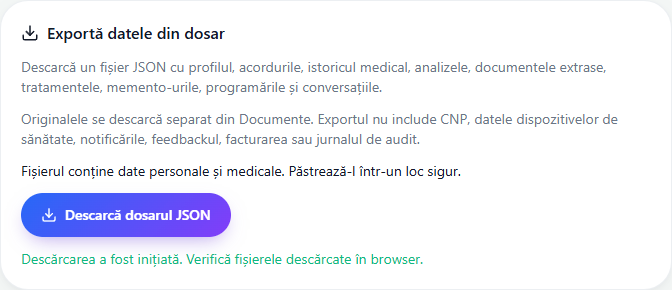
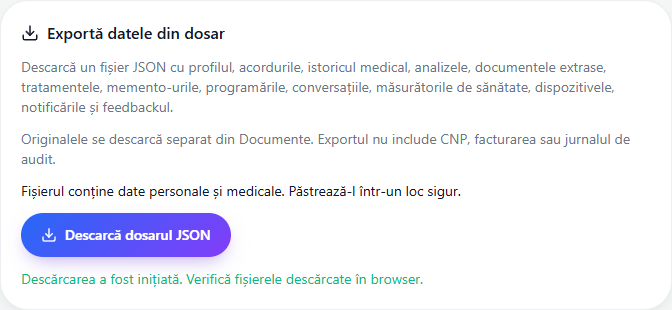
Include owned health metrics notifications and feedback in export

diff --git a/frontend/src/components/data-export.tsx b/frontend/src/components/data-export.tsx
@@ -30,9 +30,9 @@ export function DataExport() {
       <Download size={18} aria-hidden="true" /> Exportă datele din dosar
     </h2>
     <p className="text-sm text-muted">Descarcă un fișier JSON cu profilul, acordurile, istoricul medical,
-      analizele, documentele extrase, tratamentele, memento-urile, programările și conversațiile.</p>
+      analizele, documentele extrase, tratamentele, memento-urile, programările, conversațiile, măsurătorile de sănătate, dispozitivele, notificările și feedbackul.</p>
     <p className="text-sm text-muted">Originalele se descarcă separat din Documente. Exportul nu include
-      CNP, datele dispozitivelor de sănătate, notificările, feedbackul, facturarea sau jurnalul de audit.</p>
+      CNP, facturarea sau jurnalul de audit.</p>
     <p className="text-sm">Fișierul conține date personale și medicale. Păstrează-l într-un loc sigur.</p>
     {native && <p className="text-sm text-muted">Alege destinația în dialogul sistemului. Copia temporară
       rămâne în memoria cache privată; copiile mai vechi de 24 de ore se curăță la următorul export.</p>}

diff --git a/backend/tests/test_gdpr.py b/backend/tests/test_gdpr.py
@@ -128,3 +128,71 @@ def test_export_preserves_clinical_details_and_isolates_accounts(client, db_sess
     path = data["documents"][0]["original_download_path"]
     assert client.get(path, headers=other).status_code == 404
     assert client.get(f"{API}/gdpr/export").status_code == 401
+
+
+def test_health_notifications_feedback_export_owner_scope(client, db_session):
+    from datetime import UTC, datetime
+
+    from sqlalchemy import select
+
+    from app.models.enums import HealthMetricType, HealthSource, NotificationChannel
+    from app.models.feedback import Feedback
+    from app.models.health import HealthSample
+    from app.models.health_device import HealthDevice
+    from app.models.notification import Notification
+    from app.models.patient import Patient
+    from app.models.user import User
+
+    headers = []
+    for index in range(2):
+        email = f"portable-{index}@example.com"
+        h = _auth(client, email)
+        headers.append(h)
+        client.get(f"{API}/documents", headers=h)
+        user = db_session.scalar(select(User).where(User.email == email))
+        patient = db_session.scalar(select(Patient).where(Patient.user_id == user.id))
+        when = datetime(2026, 1, 1, 12, tzinfo=UTC)
+        db_session.add_all([
+            HealthSample(patient_id=patient.id, source=HealthSource.MANUAL,
+                         metric_type=HealthMetricType.STEPS, value=100 + index,
+                         unit="count", recorded_at=when),
+            HealthDevice(patient_id=patient.id, source=HealthSource.MANUAL,
+                         name=f"synthetic-device-{index}", metrics='["steps"]',
+                         sample_count=1, last_seen_at=when),
+            Notification(user_id=user.id, channel=NotificationChannel.PUSH,
+                         title=f"synthetic-notification-{index}", body="Fictitious body",
+                         scheduled_for=when, delivery_token="internal-delivery-claim"),
+            Feedback(user_id=user.id, message=f"synthetic-feedback-{index}", rating=4),
+        ])
+        db_session.commit()
+    for index, h in enumerate(headers):
+        response = client.get(f"{API}/gdpr/export", headers=h)
+        assert response.status_code == 200
+        data = response.json()
+        assert len(data["health_samples"]) == 1
+        assert data["health_samples"][0]["value"] == 100 + index
+        assert data["health_samples"][0]["recorded_at"] == "2026-01-01T12:00:00+00:00"
+        assert data["health_devices"][0]["name"] == f"synthetic-device-{index}"
+        assert data["health_devices"][0]["metrics"] == ["steps"]
+        assert len(data["notifications"]) == 1
+        assert data["notifications"][0]["title"] == f"synthetic-notification-{index}"
+        assert data["feedback"][0]["message"] == f"synthetic-feedback-{index}"
+        assert "internal-delivery-claim" not in response.text
+        assert "delivery_token" not in response.text
+        for section in ("health_device_data", "notifications", "feedback"):
+            assert section not in data["export_metadata"]["not_included"]
+
+
+def test_account_export_without_patient_keeps_feedback(client, db_session):
+    from sqlalchemy import select
+
+    from app.models.feedback import Feedback
+    from app.models.user import User
+
+    h = _auth(client, "no-patient-export@example.com")
+    user = db_session.scalar(select(User).where(User.email == "no-patient-export@example.com"))
+    db_session.add(Feedback(user_id=user.id, message="Before profile creation"))
+    db_session.commit()
+    data = client.get(f"{API}/gdpr/export", headers=h).json()
+    assert data["patient"] is None
+    assert data["feedback"][0]["message"] == "Before profile creation"

diff --git a/backend/app/services/gdpr.py b/backend/app/services/gdpr.py
@@ -13,6 +13,7 @@ from app.models.document import Document
 from app.models.feedback import Feedback
 from app.models.medication import Medication
 from app.models.medication_reminder import MedicationReminder
+from app.models.notification import Notification
 from app.models.patient import Patient
 from app.models.user import Consent, User
 from app.services.storage_cleanup import enqueue
@@ -48,8 +49,7 @@ def export_user_data(db: Session, user: User) -> dict:
             "exported_at": _iso(datetime.now(UTC)),
             "original_files_included": False,
             "scope": "account_and_clinical_records",
-            "not_included": ["original_file_bytes", "cnp", "health_device_data",
-                             "notifications", "feedback", "billing", "audit_logs",
+            "not_included": ["original_file_bytes", "cnp", "billing", "audit_logs",
                              "authentication_secrets"],
         },
         "account": {
@@ -72,6 +72,20 @@ def export_user_data(db: Session, user: User) -> dict:
         ],
     }
 
+    data["notifications"] = [
+        {**_record(n), "channel": n.channel.value, "title": n.title, "body": n.body,
+         "status": n.status.value, "scheduled_for": _iso(n.scheduled_for),
+         "sent_at": _iso(n.sent_at), "resource_type": n.resource_type,
+         "resource_id": n.resource_id}
+        for n in db.scalars(select(Notification).where(Notification.user_id == user.id)
+                            .order_by(Notification.id))
+    ]
+    data["feedback"] = [
+        {**_record(f), "message": f.message, "rating": f.rating}
+        for f in db.scalars(select(Feedback).where(Feedback.user_id == user.id)
+                            .order_by(Feedback.id))
+    ]
+
     if patient is None:
         data["patient"] = None
         return data
@@ -92,6 +106,17 @@ def export_user_data(db: Session, user: User) -> dict:
     data["emergency_contacts"] = [
         {**_record(c), "name": c.name, "relationship_label": c.relationship_label, "phone": c.phone}
         for c in patient.emergency_contacts
+    ]
+    data["health_samples"] = [
+        {**_record(h), "source": h.source.value, "metric_type": h.metric_type.value,
+         "value": h.value, "unit": h.unit, "recorded_at": _iso(h.recorded_at)}
+        for h in patient.health_samples
+    ]
+    data["health_devices"] = [
+        {**_record(d), "source": d.source.value, "name": d.name, "model": d.model,
+         "vendor": d.vendor, "metrics": _json(d.metrics, []), "sample_count": d.sample_count,
+         "last_seen_at": _iso(d.last_seen_at)}
+        for d in patient.health_devices
     ]
     data["allergies"] = [
         {**_record(a), "substance": a.substance, "reaction": a.reaction,

diff --git a/docs/LOCAL-TEST.md b/docs/LOCAL-TEST.md
@@ -186,7 +186,7 @@ Fișierele temporare locale noi au un nume determinist derivat din cheia unică,
 
 ### Export JSON al dosarului — schema 2
 Exportul autentificat păstrează cheile existente și adaugă identificatori, datele creării/modificării, contacte de urgență, furnizorul vaccinului, legături ale istoricului, rezultate textuale și nivelul de verificare al analizelor, textul extras și metadatele documentului, perioade/note/instrucțiuni ale medicației și detalii ale programărilor. Orele sunt exportate cu fus orar; datele calendaristice rămân date. Metadatele JSON vechi nevalide sunt păstrate ca `unparsed_text`, fără să blocheze restul exportului.
-`export_metadata` declară explicit acoperirea. Originalele nu sunt încorporate în JSON; fiecare document oferă o cale de descărcare care necesită autentificarea proprietarului. CNP, datele dispozitivelor de sănătate, notificările, feedbackul, facturarea și auditul nu sunt încă incluse. Secretele de autentificare și cheile interne de stocare nu se exportă. Răspunsul are `Cache-Control: no-store`; fișierul descărcat rămâne în responsabilitatea utilizatorului. Acest increment nu reprezintă un pachet integral de portabilitate și nu certifică conformitatea juridică GDPR.
+`export_metadata` declară explicit acoperirea. Originalele nu sunt încorporate în JSON; fiecare document oferă o cale de descărcare care necesită autentificarea proprietarului. CNP, facturarea și auditul nu sunt încă incluse. Măsurătorile de sănătate, dispozitivele raportate, notificările și feedbackul propriu sunt incluse. Tokenurile push și marcajele interne de livrare nu sunt exportate. Secretele de autentificare și cheile interne de stocare nu se exportă. Răspunsul are `Cache-Control: no-store`; fișierul descărcat rămâne în responsabilitatea utilizatorului. Acest increment nu reprezintă un pachet integral de portabilitate și nu certifică conformitatea juridică GDPR.
 
 
 Exportul JSON se descarcă din **Setări → Exportă datele din dosar → Descarcă dosarul JSON**. Butonul folosește sesiunea autentificată și mecanismul de reînnoire existent, afișează erori cu posibilitate de reîncercare și precizează că inițierea descărcării nu confirmă salvarea pe disc. Numele fișierului conține doar data, fără numele pacientului. Testele de browser verifică efectiv JSON-ul descărcat și identitatea contului pe cele trei dimensiuni de ecran. În buildurile native, exportul JSON folosește acum dialogul sistemului prin adaptorul Capacitor; validarea pe dispozitive fizice rămâne necesară. Browserul mobil și PWA folosesc descărcarea web.
